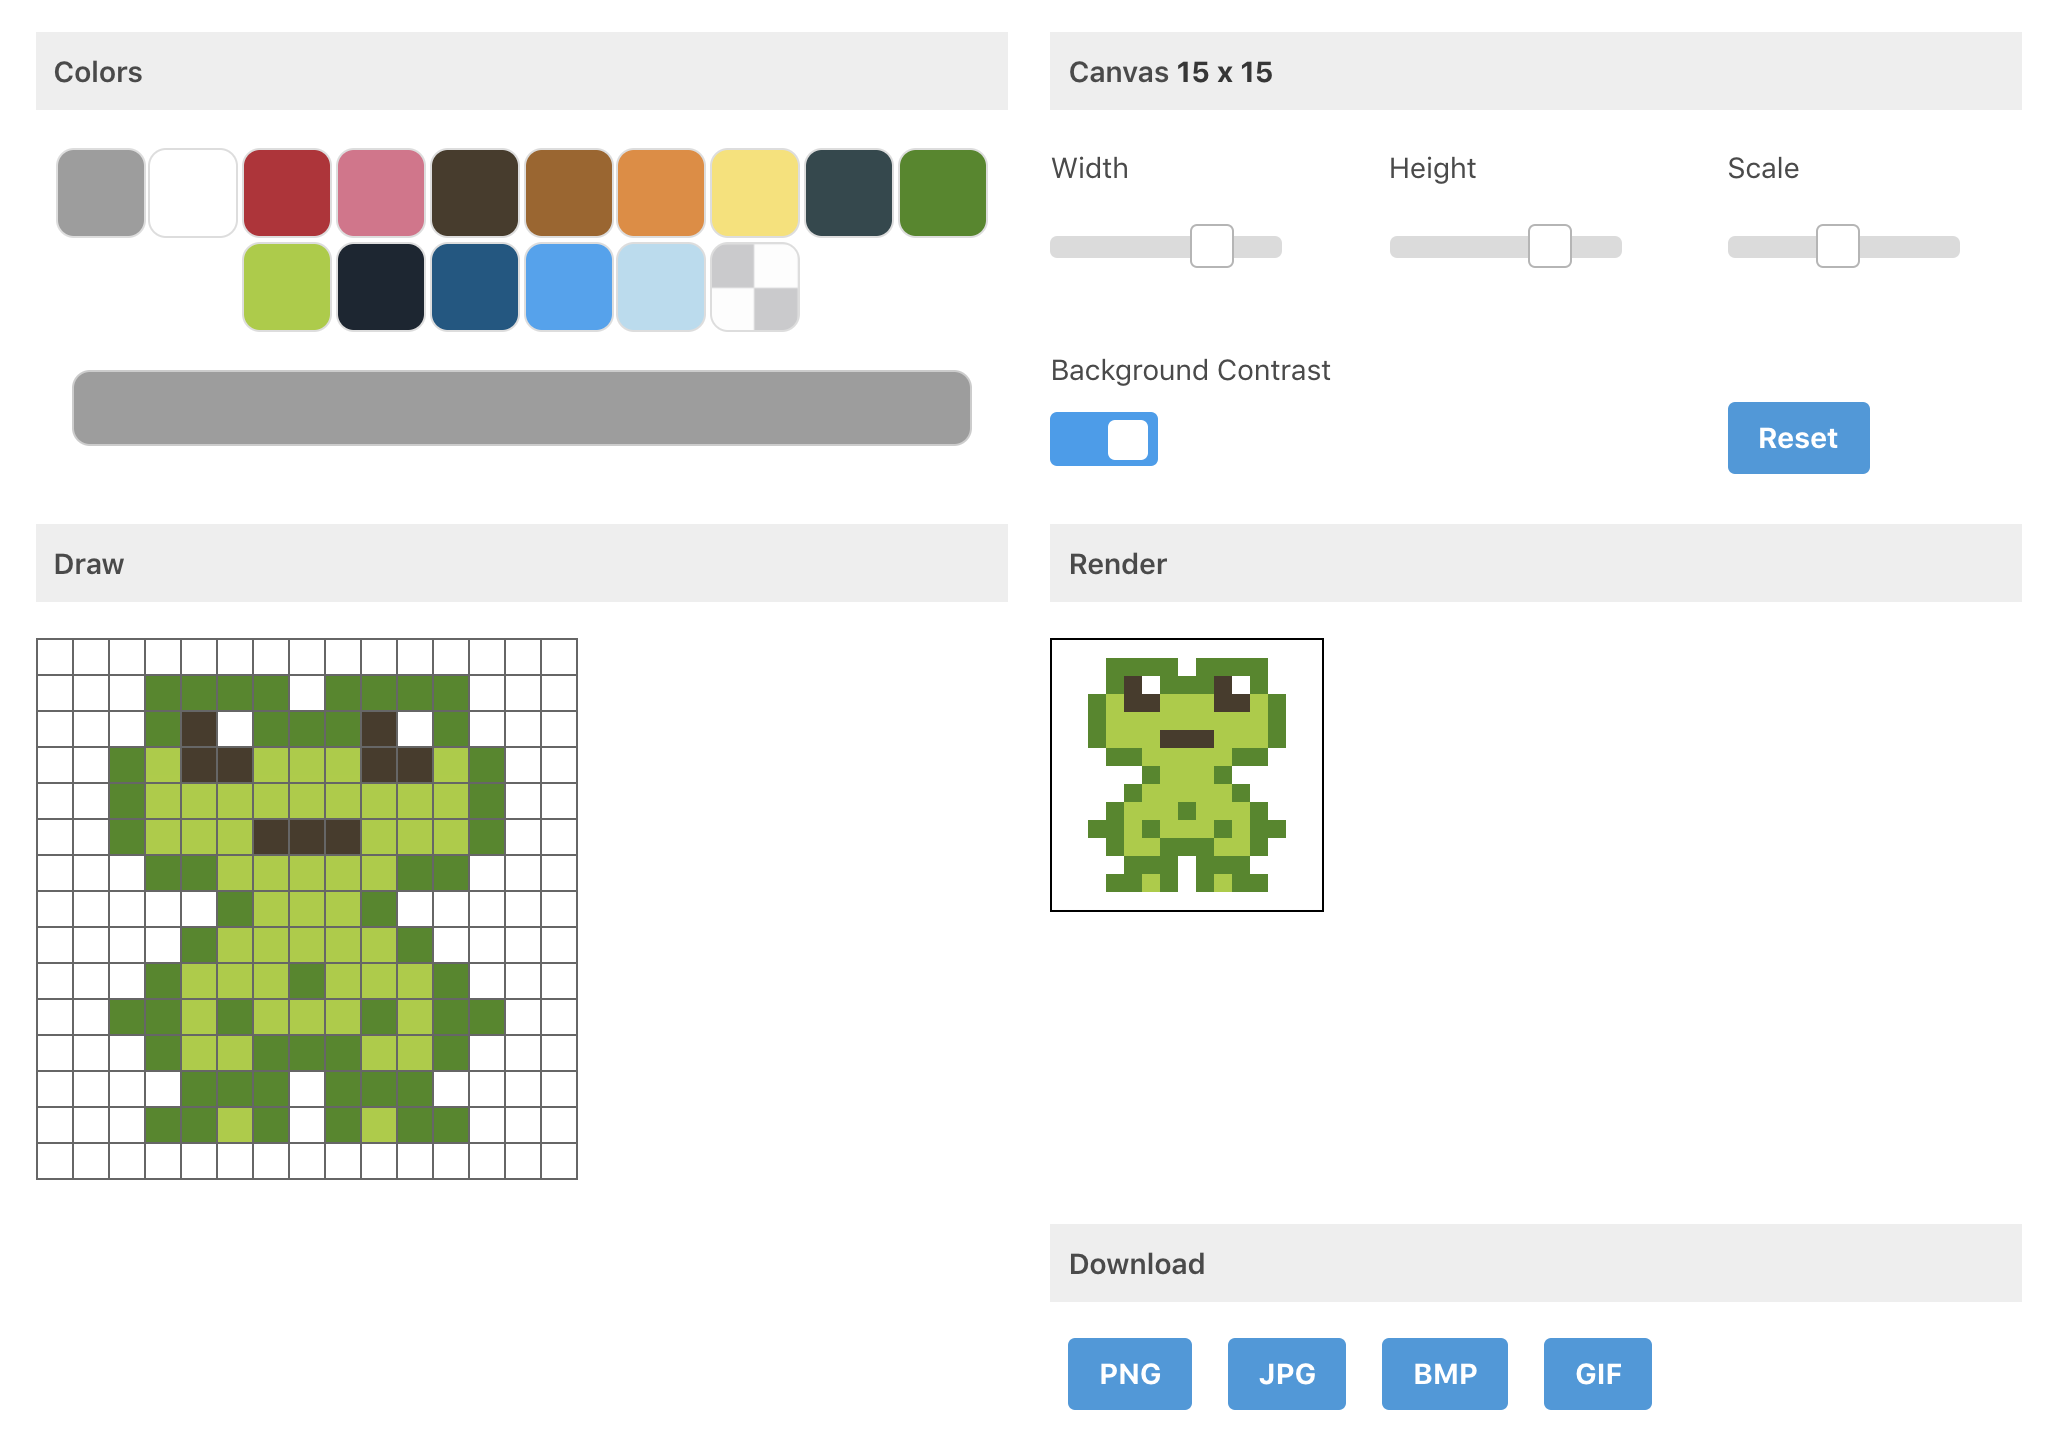
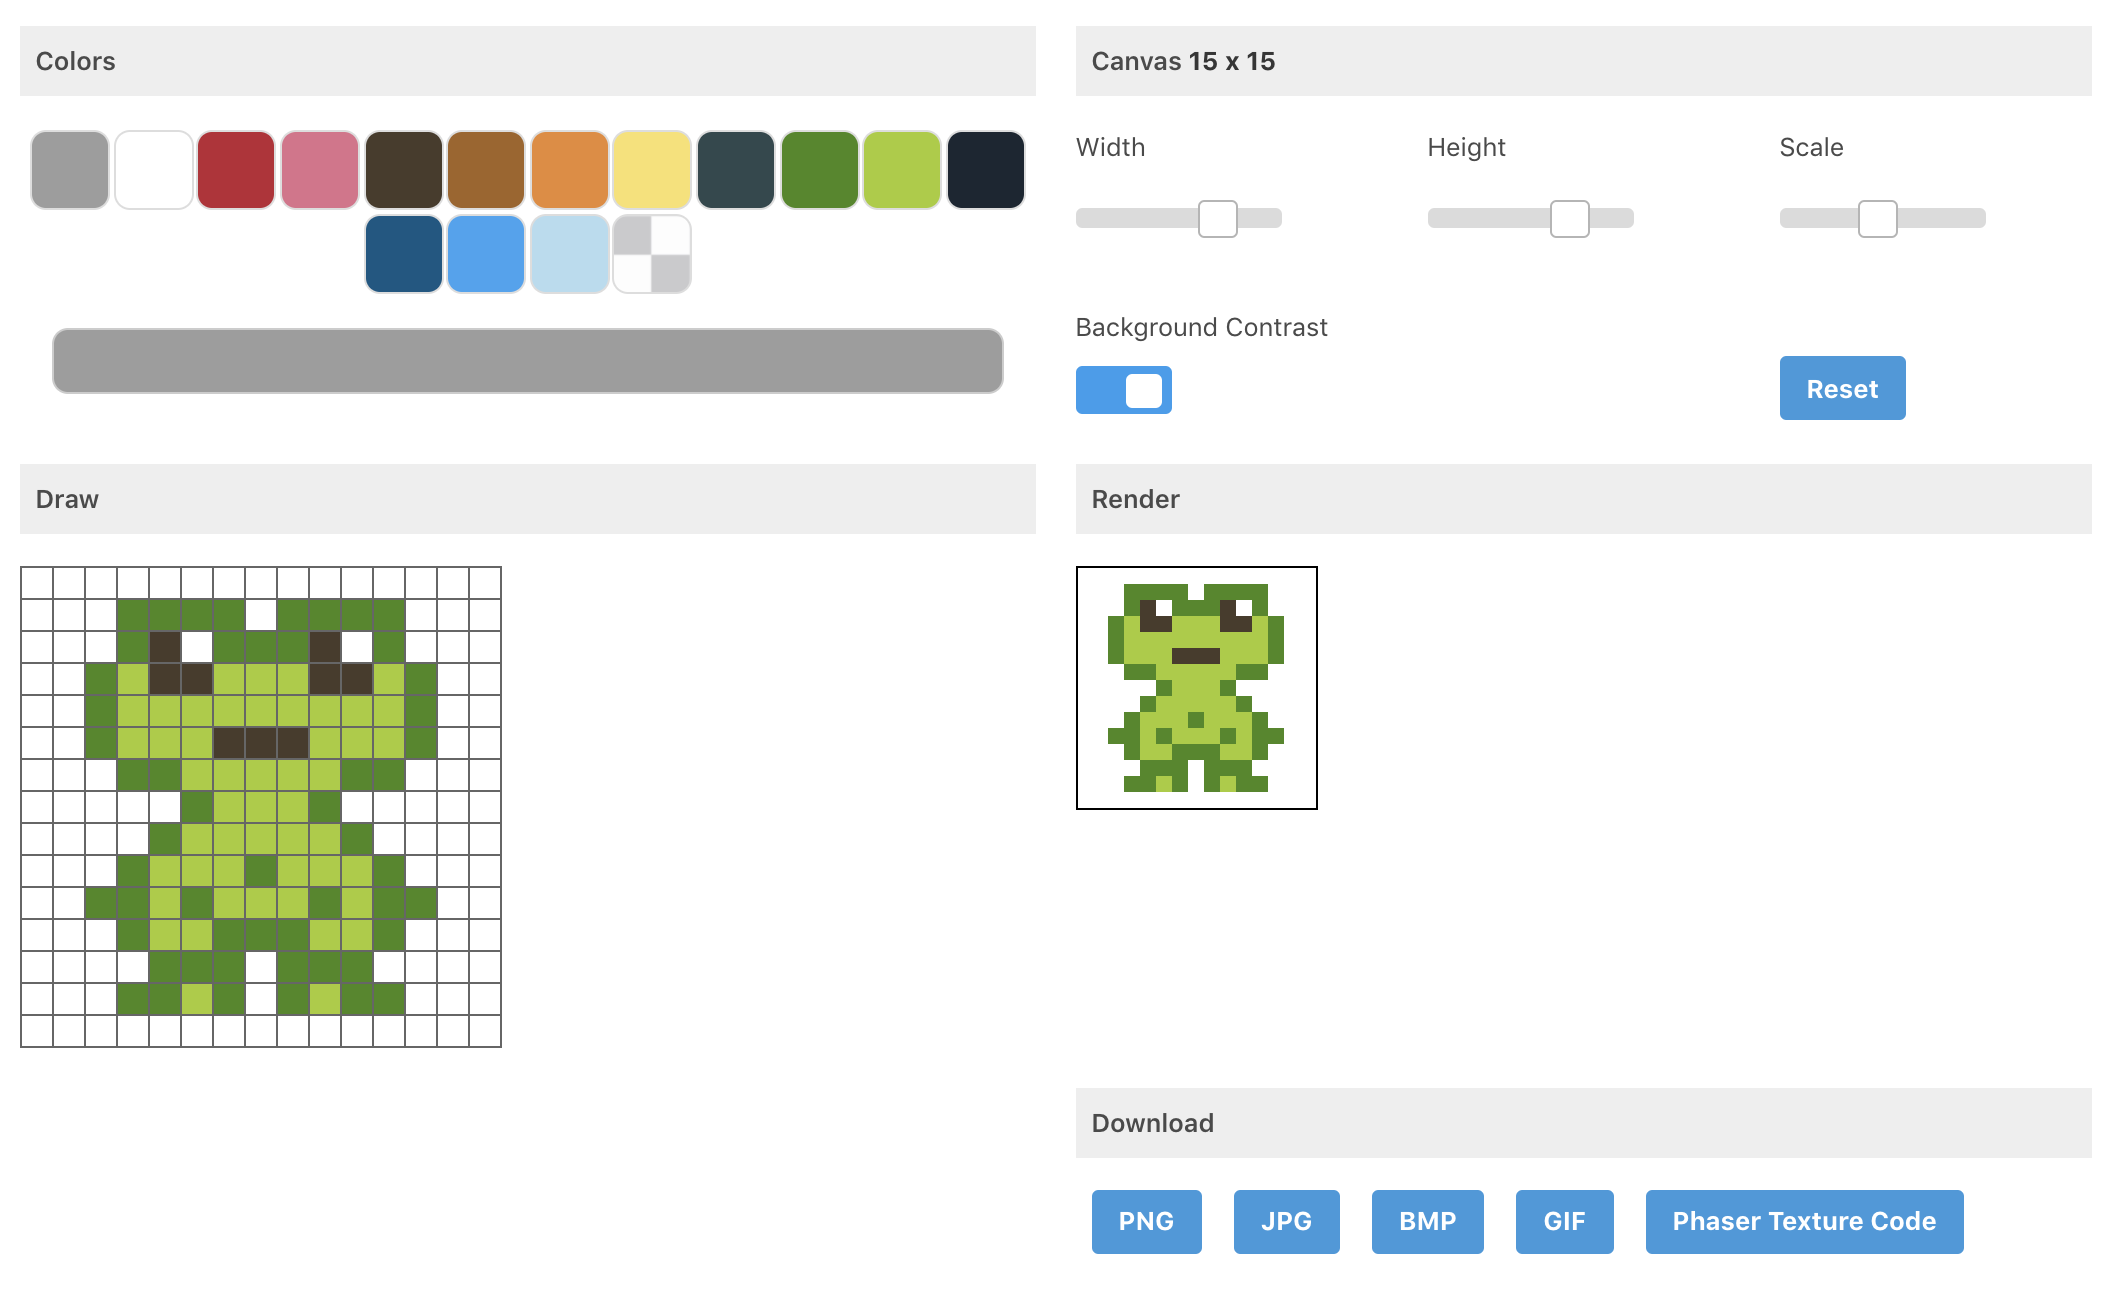
Add phaser texture code

diff --git a/src/components/Modal.js b/src/components/Modal.js
@@ -1,19 +1,47 @@
 import React from 'react';
+import { useSelector } from 'react-redux';
 
 const Modal = (props) => {
+	const grid = useSelector(state => state.gridReducer).grid;
 	const isActive = props.show ? 'is-active' : '';
 	const showModal = props.showModal;
+
+	const image = [];
+
+	if (showModal) {
+		grid.forEach(row => {
+			let imageRow = ''
+			row.forEach(cell => {
+				imageRow += cell.value;
+			});
+			image.push(imageRow);
+		});
+	}
 
 	return (
 		<div className={"modal " + isActive}>
 			<div className="modal-background"></div>
 			<div className="modal-content">
-				<p className="">
-					{/* Provide phaser code */}
-				</p>
+				<div className="modal-card">
+					<header className="modal-card-head">
+						<p className="modal-card-title">Phaser Texture Code</p>
+						<button className="delete" aria-label="close" onClick={() => showModal(false)}></button>
+					</header>
+					<section className="modal-card-body">
+						<pre>
+							<code>
+								<div>const image = [</div>
+								{
+									image.map((row, index) => <div key={index}> {row},</div>)
+								}
+								<div>];</div>
+								<div>{'// Generate a new texture with a reference to the game object'}</div>
+								<div>{'game.textures.generate("image", { data: image, pixelWidth: 5 });'}</div>
+							</code>
+						</pre>
+					</section>
+				</div>
 			</div>
-			<button className="modal-close is-large"
-				onClick={() => showModal(false)} aria-label="close"></button>
 		</div>
 	)
 }

diff --git a/src/components/Download.js b/src/components/Download.js
@@ -32,7 +32,7 @@ const Download = (props) => {
 		},
 		{
 			mime: '',
-			label: 'Phaser Texture'
+			label: 'Phaser Texture Code'
 		}
 	];
 
